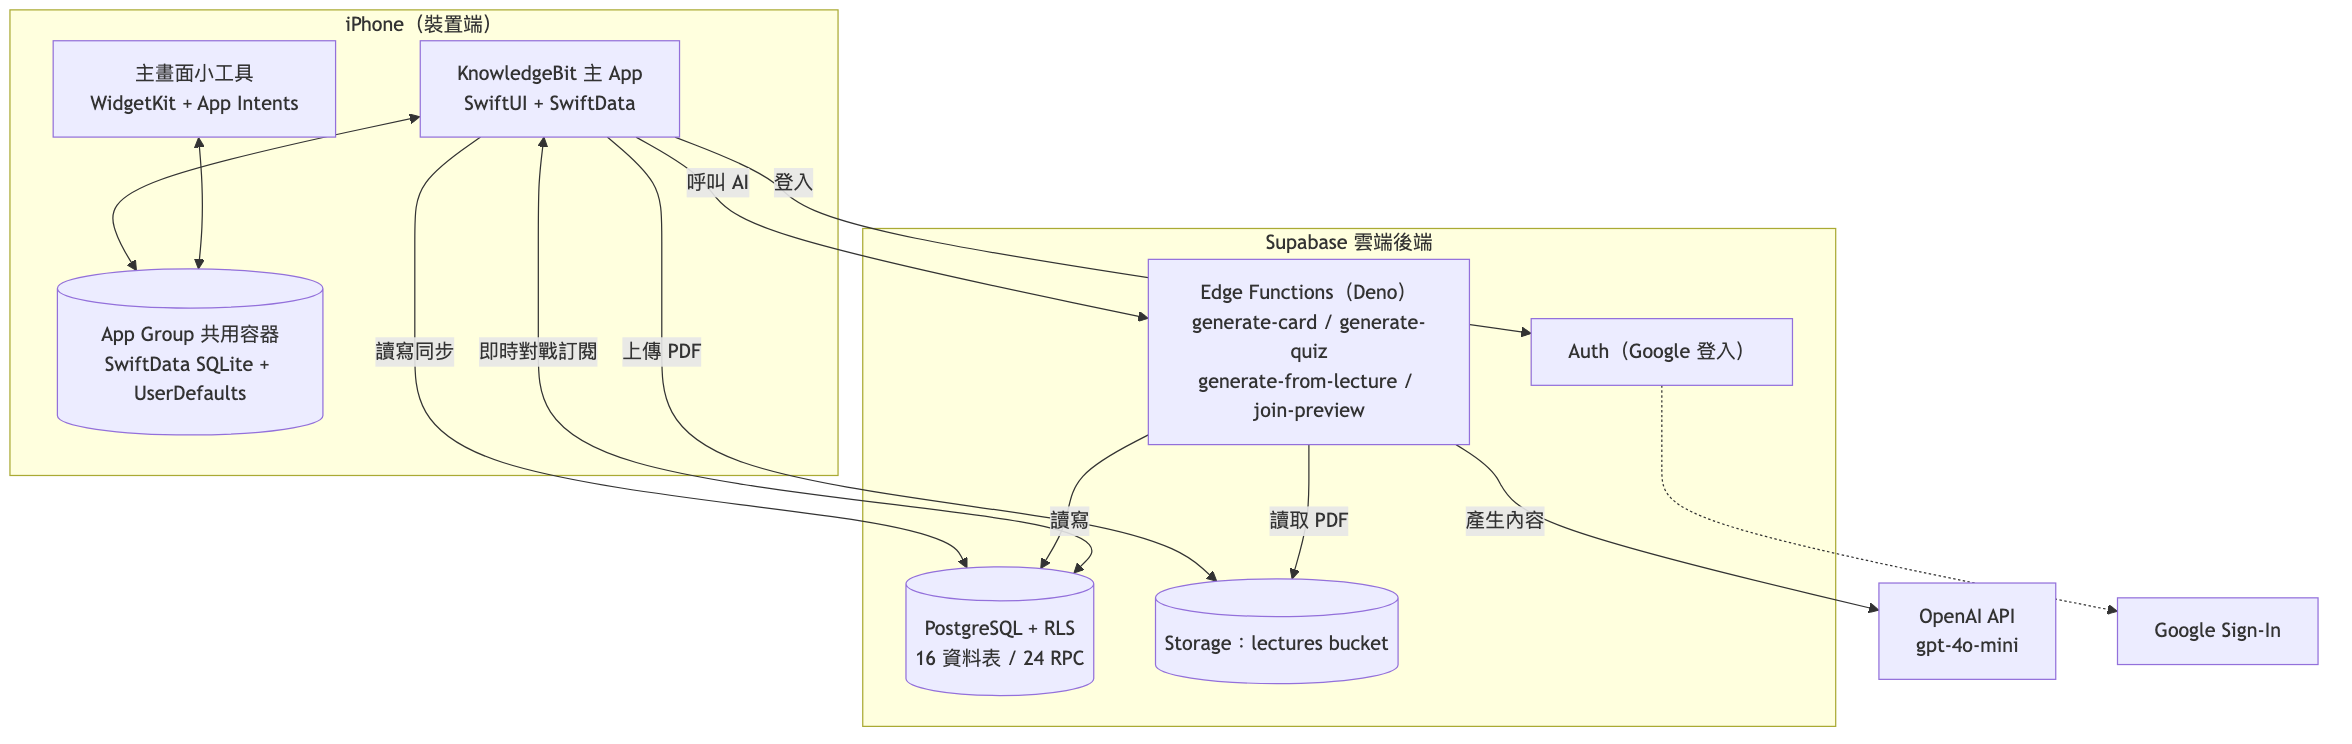
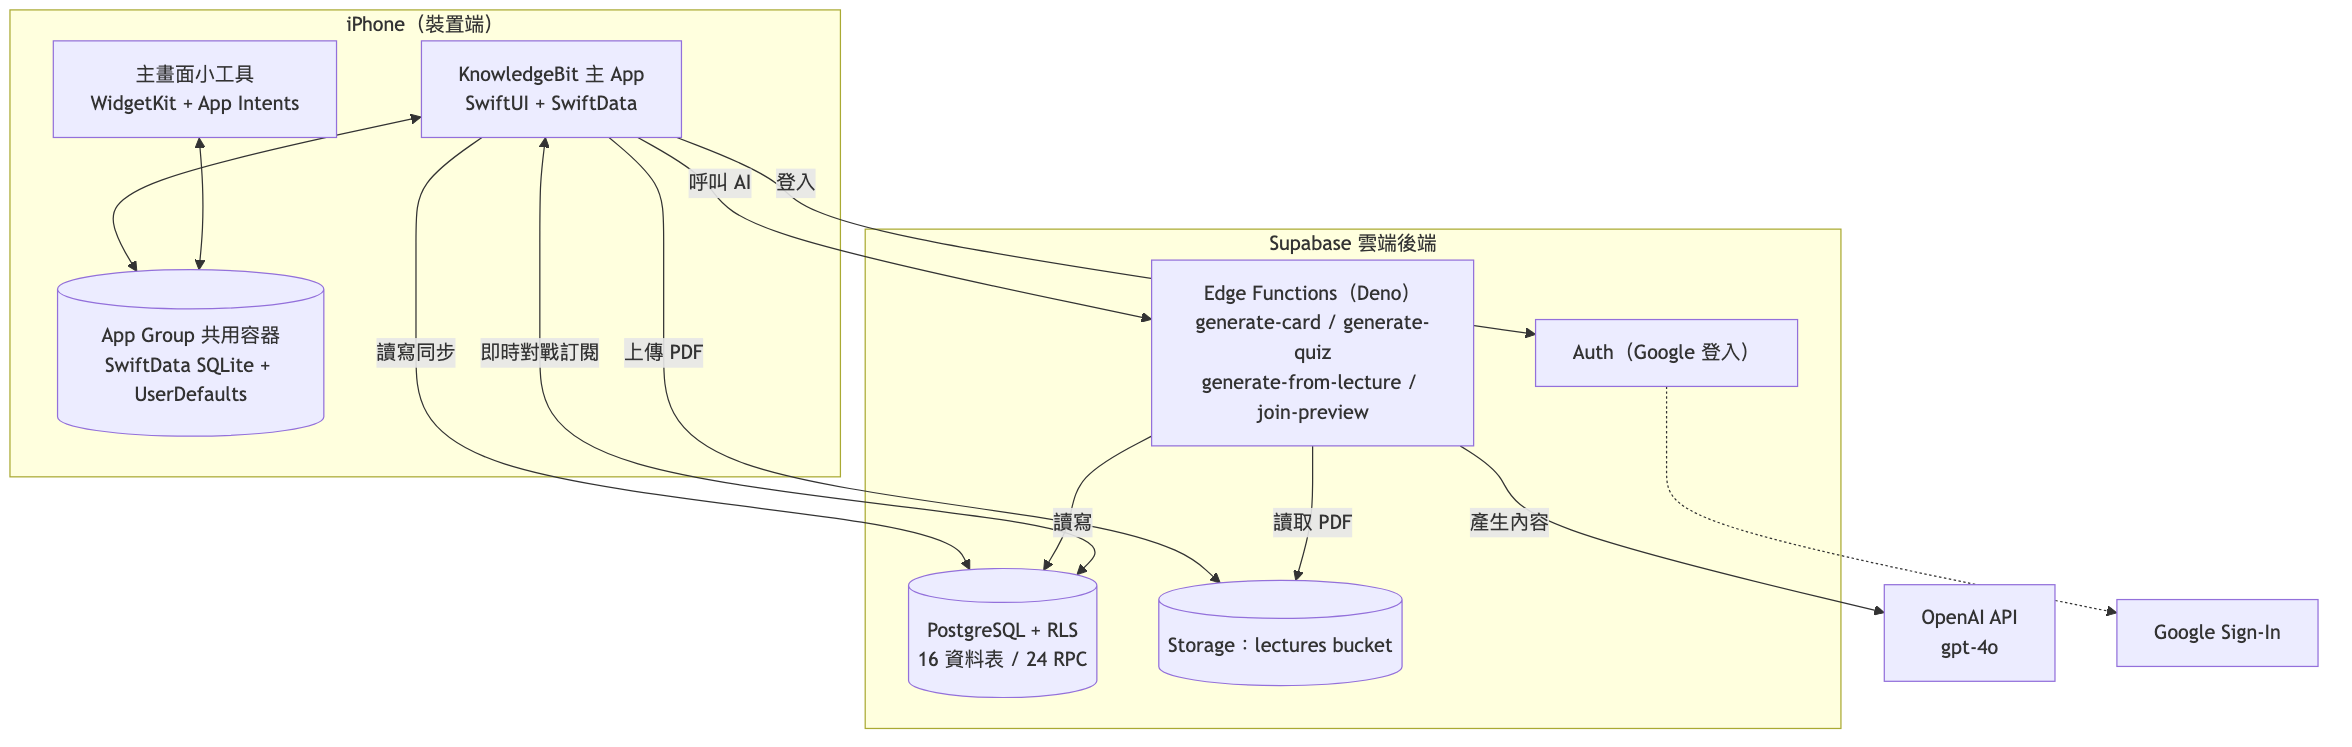
chore: switch default AI model to gpt-4o and trim report sections
- edge functions: default OPENAI_MODEL gpt-4o-mini -> gpt-4o (still env-overridable); deploy needed to take effect
- README/report/diagrams: update model references to gpt-4o, re-render PNGs
- 競賽報告.md: condense architecture, features, and platform sections to a less granular level

diff --git a/supabase/functions/generate-card/index.ts b/supabase/functions/generate-card/index.ts
@@ -1,4 +1,4 @@
-// Supabase Edge Function: 根據使用者輸入的主題，用 OpenAI gpt-4o-mini 產生「多張」單字卡，歸於同一單字集。
+// Supabase Edge Function: 根據使用者輸入的主題，用 OpenAI gpt-4o 產生「多張」單字卡，歸於同一單字集。
 // API Key 請在 Supabase Dashboard 設定 Secret: OPENAI_API_KEY
 declare const Deno: {
   serve: (handler: (req: Request) => Response | Promise<Response>) => void;
@@ -23,7 +23,7 @@ interface GeneratedCardItem {
 }
 
 const OPENAI_URL = "https://api.openai.com/v1/chat/completions";
-const OPENAI_MODEL = Deno.env.get("OPENAI_MODEL") ?? "gpt-4o-mini";
+const OPENAI_MODEL = Deno.env.get("OPENAI_MODEL") ?? "gpt-4o";
 
 Deno.serve(async (req) => {
   if (req.method === "OPTIONS") {

diff --git a/supabase/functions/generate-from-lecture/index.ts b/supabase/functions/generate-from-lecture/index.ts
@@ -4,7 +4,7 @@
 //    if cached and not expired, skip download + upload entirely
 // 3) Otherwise download PDF bytes from Storage and upload to OpenAI Files API
 //    (purpose=user_data), then upsert the file_id into the cache
-// 4) Call OpenAI Responses API (gpt-4o-mini) with input_file referencing the uploaded file
+// 4) Call OpenAI Responses API (gpt-4o) with input_file referencing the uploaded file
 // 5) Return strict JSON: { summary, flashcards, quiz }
 
 declare const Deno: {
@@ -17,7 +17,7 @@ const corsHeaders = {
   "Access-Control-Allow-Headers": "authorization, x-client-info, apikey, content-type",
 };
 
-const OPENAI_MODEL = Deno.env.get("OPENAI_MODEL") ?? "gpt-4o-mini";
+const OPENAI_MODEL = Deno.env.get("OPENAI_MODEL") ?? "gpt-4o";
 const OPENAI_FILES_URL = "https://api.openai.com/v1/files";
 const OPENAI_RESPONSES_URL = "https://api.openai.com/v1/responses";
 const MAX_PDF_BYTES = 20 * 1024 * 1024; // 20 MiB sync limit

diff --git a/supabase/functions/generate-quiz/index.ts b/supabase/functions/generate-quiz/index.ts
@@ -29,7 +29,7 @@ interface QuizQuestionItem {
 }
 
 const OPENAI_URL = "https://api.openai.com/v1/chat/completions";
-const OPENAI_MODEL = Deno.env.get("OPENAI_MODEL") ?? "gpt-4o-mini";
+const OPENAI_MODEL = Deno.env.get("OPENAI_MODEL") ?? "gpt-4o";
 const MAX_WORDS = 15;
 
 type DetectedLang = "ko" | "ja" | "en";

diff --git a/競賽報告.md b/競賽報告.md
@@ -126,14 +126,9 @@ KnowledgeBit 由三個協同運作的部分組成：
 
 ### 6.1 前端架構（iOS App）
 - **語言／框架**：Swift + SwiftUI（宣告式 UI）。
-- **分層**（依命名慣例，組織清晰）：
-  - View（`*View.swift`）：畫面，如 `HomeView`、`WordSetDetailView`、`QuizView`、`BattleRoomView`。
-  - ViewModel（`*ViewModel.swift`）：畫面狀態與邏輯，如 `CommunityViewModel`、`StrategicBattleViewModel`。
-  - Service（`*Service.swift`）：業務邏輯與後端呼叫，如 `AuthService`、`AIService`、`SRSService`、`BattleRoomService`、`ChallengeService`。
-  - Store（`*Store.swift`）：本地狀態，多以 App Group UserDefaults 持久化，如 `ExperienceStore`、`BattleEnergyStore`、`PendingInviteStore`。
-  - Model：SwiftData 模型 `Card`、`WordSet`、`UserProfile`、`DailyStats`、`StudyLog`。
-- **本地持久化**：SwiftData（底層 Core Data / SQLite），透過 `ModelContainer(groupContainer:)` 建立於 App Group 容器中。
-- **小工具**：WidgetKit + App Intents（互動切換卡片），與主 App 共用同一 SwiftData 容器與 UserDefaults。
+- **分層**：採 View / ViewModel / Service（業務邏輯與後端呼叫）/ Store（本地狀態）/ Model（資料模型）分層，職責清晰。
+- **本地持久化**：SwiftData（底層 Core Data / SQLite），建立於 App Group 共用容器中，與小工具共享同一份資料。
+- **小工具**：WidgetKit + App Intents（互動切換卡片），透過 App Group 與主 App 同步資料。
 
 ### 6.2 後端架構（Supabase）
 - **Auth**：Supabase Auth + Google Sign-In。
@@ -148,22 +143,19 @@ KnowledgeBit 由三個協同運作的部分組成：
 | Supabase PostgreSQL + RLS | 雲端資料、權限控管 |
 | Supabase Edge Functions | AI 生成代理、邀請連結網頁預覽 |
 | Supabase Storage | 講義 PDF 儲存 |
-| OpenAI API（`gpt-4o-mini`） | 生單字卡、生選擇題、講義 PDF 轉教材（Chat Completions 與 Responses API） |
+| OpenAI API（`gpt-4o`） | 生單字卡、生選擇題、講義 PDF 轉教材（Chat Completions 與 Responses API） |
 | Google Sign-In | 第三方登入 |
 
-### 6.4 資料庫主要資料表
-| 資料表 | 用途 |
-|--------|------|
-| `user_profiles` | 使用者頭像、名稱、等級、經驗、邀請碼 |
-| `word_sets` | 單字集 |
-| `cards` | 單字卡（歸屬單字集） |
-| `study_logs` | 學習紀錄（供連勝、熱力圖、統計） |
-| `friend_requests` / `friendships` | 好友請求與好友關係 |
-| `word_set_collaborators` / `word_set_invitations` | 單字集共編者與邀請 |
-| `battle_rooms` / `battle_board_state` / `battle_allocations` / `battle_energy` | 對戰房間、地圖狀態、佔格配置、能量（KE） |
-| `challenge_sessions` | 非同步挑戰賽局 |
-| `lecture_jobs` / `lecture_results` / `lecture_files` | 講義非同步處理任務、結果、檔案快取 |
-| `user_ai_daily_usage` | AI 每日使用量配額 |
+### 6.4 資料庫主要資料（共 16 張表，依領域分組）
+| 領域 | 主要儲存內容 |
+|------|--------------|
+| 使用者與內容 | 個人檔案（含等級／經驗／邀請碼）、單字集、單字卡、學習紀錄 |
+| 社群 | 好友請求與關係、單字集共編者與邀請 |
+| 對戰 | 對戰房間、地圖狀態、佔格配置與能量（KE） |
+| 挑戰與講義 | 非同步挑戰賽局、講義處理任務／結果／檔案快取 |
+| AI 控管 | AI 每日使用量配額 |
+
+> 完整的資料表欄位字典與 ER 圖列於「需要補充資訊」，可於正式投稿前補上。
 
 ### 6.5 系統架構圖（Mermaid）
 
@@ -184,7 +176,7 @@ graph TD
         ST[("Storage：lectures bucket")]
     end
 
-    OPENAI["OpenAI API<br/>gpt-4o-mini"]
+    OPENAI["OpenAI API<br/>gpt-4o"]
     GOOGLE["Google Sign-In"]
 
     APP -->|登入| AUTH
@@ -213,7 +205,7 @@ sequenceDiagram
     Note over U,W: 流程一：AI 產生單字卡
     U->>App: 輸入主題（含已存在單字）
     App->>EF: invoke generate-card（帶 JWT）
-    EF->>AI: gpt-4o-mini（JSON 模式）
+    EF->>AI: gpt-4o（JSON 模式）
     AI-->>EF: 多張卡片陣列
     EF-->>App: 過濾重複/空白後回傳
     App->>SD: 寫入本地卡片
@@ -236,48 +228,21 @@ sequenceDiagram
 
 ### 7.1 核心功能與用途（依模組分類）
 
-**A. 學習與複習**
-| 功能 | 用途 | 關鍵實作 |
-|------|------|----------|
-| 翻卡測驗 | 主動回憶練習 | `QuizView`、`FlipCardView`（3D 翻卡） |
-| SRS 間隔複習 | 對抗遺忘曲線，只複習到期卡 | `SRSService`、`ReviewSessionView`（10分→1天→3天→7天→14天→30天…） |
-| AI 選擇題測驗 | 變化題型、檢驗理解 | `ChoiceQuizView`、Edge Function `generate-quiz` |
-| 講義 PDF 轉教材 | 上傳 PDF 自動生成摘要＋卡片＋測驗 | `LectureImportView`、`generate-from-lecture`（含非同步 job） |
-
-**B. 內容管理**
-| 功能 | 用途 | 關鍵實作 |
-|------|------|----------|
-| 單字集 / 卡片 CRUD | 自建任意主題內容（支援 Markdown） | `WordSetDetailView`、`AddCardView`、`Card`/`WordSet` 模型 |
-| AI 生卡 | 依主題一次生成多張卡，排除重複 | `AIService.generateCards`、`generate-card` |
-| 單字集共編 | 好友共同編輯 | `WordSetCollaboratorService`、RPC `set_word_set_collaborators` |
-| 設為小工具來源 | 指定主畫面顯示的單字集 | `WidgetSyncService`、App Group |
-
-**C. 遊戲化與動機**
-| 功能 | 用途 | 關鍵實作 |
-|------|------|----------|
-| 連續天數（Streak） | 維持每日學習習慣 | `StudyLog+Streak`、`StreakCardView`、`WeeklyCalendarView` |
-| 等級與經驗值 | 量化成長、正向回饋 | `ExperienceStore`（App Group + 雲端同步） |
-| 每日任務 | 引導每日學習行為 | `DailyQuest` / `DailyQuestService` |
-| 學習熱力圖 | LeetCode 風格成效檢視 | `StudyHeatmapView`、`CheckInView` |
-| 成就與統計 | 視覺化學習數據 | `StatisticsView`、Swift Charts |
-
-**D. 社群與對戰**
-| 功能 | 用途 | 關鍵實作 |
-|------|------|----------|
-| 好友系統 | 搜尋、加好友、邀請 | `FriendService`、`InviteService`、邀請碼 RPC |
-| 戰略對戰 | 答題累積能量、地圖攻防 | `BattleRoomService`、`StrategicBattleView`、DB RPC 結算 |
-| 非同步挑戰 | 固定題目挑戰賽 | `ChallengeService`、`challenge_sessions` 表 |
-| 通知 / Deep Link | 提醒與跨情境導航 | `NotificationManager`、`DeepLinkParser` |
+| 模組 | 主要功能 | 用途 |
+|------|----------|------|
+| 學習與複習 | 翻卡測驗、SRS 間隔複習、AI 選擇題、講義 PDF 轉教材 | 主動回憶、對抗遺忘曲線、變化題型、自動產生教材 |
+| 內容管理 | 單字集／卡片 CRUD、AI 生卡、單字集共編、設為小工具來源 | 自建任意主題內容並可協作，AI 降低建立門檻 |
+| 遊戲化與動機 | 連續天數、等級經驗、每日任務、學習熱力圖、成就統計 | 維持習慣、提供即時正向回饋與成效視覺化 |
+| 社群與對戰 | 好友系統、戰略對戰、非同步挑戰、通知／Deep Link | 社交驅動學習動機與跨情境導航 |
 
 ### 7.2 技術棧分類
 - **語言／UI**：Swift、SwiftUI、Swift Charts
-- **本地資料**：SwiftData（Core Data / SQLite）、App Groups、UserDefaults
-- **系統整合**：WidgetKit、App Intents、UserNotifications、Deep Link（URL Scheme）
-- **後端**：Supabase（Auth、PostgreSQL + RLS、Edge Functions（Deno/TypeScript）、Storage）
-- **AI**：OpenAI `gpt-4o-mini`（Chat Completions、Responses API）
-- **第三方登入**：Google Sign-In（AppAuth / GTMAppAuth）
-- **套件管理**：Swift Package Manager（supabase-swift、GoogleSignIn-iOS、swift-crypto 等）
-- **版本控制**：Git / GitHub
+- **本地資料**：SwiftData（Core Data / SQLite）、App Groups
+- **系統整合**：WidgetKit、App Intents、通知、Deep Link
+- **後端**：Supabase（Auth、PostgreSQL + RLS、Edge Functions、Storage）
+- **AI**：OpenAI `gpt-4o`
+- **第三方登入**：Google Sign-In
+- **工具**：Swift Package Manager、Git / GitHub
 
 ### 7.3 AI / API / Database 用途總覽
 - **AI（OpenAI）**：把「使用者主題或講義」轉為「可學習的結構化內容（卡片／題目）」，是降低內容建立門檻的核心。
@@ -324,18 +289,13 @@ sequenceDiagram
 
 | 項目 | 內容 |
 |------|------|
-| 目標平台 | **iOS 原生**（iPhone；含主畫面 Widget Extension） |
-| 開發語言 | Swift 5（SwiftUI） |
-| 開發環境 | Xcode；Swift Package Manager 管理相依套件 |
-| Bundle ID | 主 App `com.ios.KnowledgeBit`、Widget `com.ios.KnowledgeBit.widget` |
-| App Group | `group.com.team.knowledgebit` |
-| 部署目標 | 專案設定 `IPHONEOS_DEPLOYMENT_TARGET = 26.0`（**需確認**：與 README 所述 iOS 17.0 不一致，請以實際支援版本為準） |
-| 後端 Hosting | Supabase（雲端託管：Auth / PostgreSQL / Edge Functions / Storage） |
-| 資料庫 | 雲端 PostgreSQL（Supabase）＋ 裝置端 SwiftData/SQLite（App Group） |
-| 雲端服務 | Supabase、OpenAI API、Google Sign-In |
-| 發佈方式 | **推測**：透過 Apple App Store / TestFlight（尚未在程式碼中確認上架設定） |
+| 目標平台 | **iOS 原生**（iPhone，含主畫面 Widget） |
+| 開發環境 | Swift／SwiftUI、Xcode（**需確認**最低支援 iOS 版本，README 與專案設定不一致） |
+| 後端 / 雲端 | Supabase（Auth、PostgreSQL、Edge Functions、Storage） |
+| 外部服務 | OpenAI API、Google Sign-In |
+| 發佈方式 | **推測**：App Store / TestFlight |
 
-> **需要補充資訊**：是否已申請 Apple Developer 帳號、是否已上架 / TestFlight、Supabase 為免費或付費方案、OpenAI 用量與成本估算。
+> **需要補充資訊**：Apple Developer 帳號與上架狀態、Supabase 方案、OpenAI 用量與成本估算。
 
 ---
 
@@ -411,7 +371,7 @@ sequenceDiagram
 - **作品**：KnowledgeBit — iOS 遊戲化單字卡學習 App。
 - **一句話**：把學習推到主畫面，用「被動曝光 + 主動回憶 + 遊戲化回饋 + AI 生成內容」維持長期學習。
 - **核心迴圈**：小工具瀏覽 → 測驗／SRS 複習 → 連勝／等級／任務／對戰。
-- **技術棧**：SwiftUI、SwiftData、WidgetKit/App Intents、App Groups（前端）；Supabase Auth / PostgreSQL+RLS / Edge Functions / Storage（後端）；OpenAI gpt-4o-mini（AI）；Google Sign-In。
+- **技術棧**：SwiftUI、SwiftData、WidgetKit/App Intents、App Groups（前端）；Supabase Auth / PostgreSQL+RLS / Edge Functions / Storage（後端）；OpenAI gpt-4o（AI）；Google Sign-In。
 - **後端規模**：16 資料表、24 RPC、4 Edge Functions、19 migration。
 - **前端規模**：122 個 Swift 檔、25 個單元測試檔。
 - **創新點**：主畫面被動學習、對戰結算下放 DB、AI 三合一內容生成（生卡/出題/講義轉教材）、Deep Link 串接社交與對戰。
@@ -435,7 +395,7 @@ sequenceDiagram
 **Slide — 技術架構**
 - 前端：SwiftUI + SwiftData + WidgetKit + App Groups
 - 後端：Supabase（Auth / PostgreSQL+RLS / Edge Functions / Storage）
-- AI：OpenAI gpt-4o-mini（經 Edge Function 安全代理）
+- AI：OpenAI gpt-4o（經 Edge Function 安全代理）
 - 規模：16 表 / 24 RPC / 122 Swift 檔 / 25 測試檔
 
 **Slide — 競品比較**